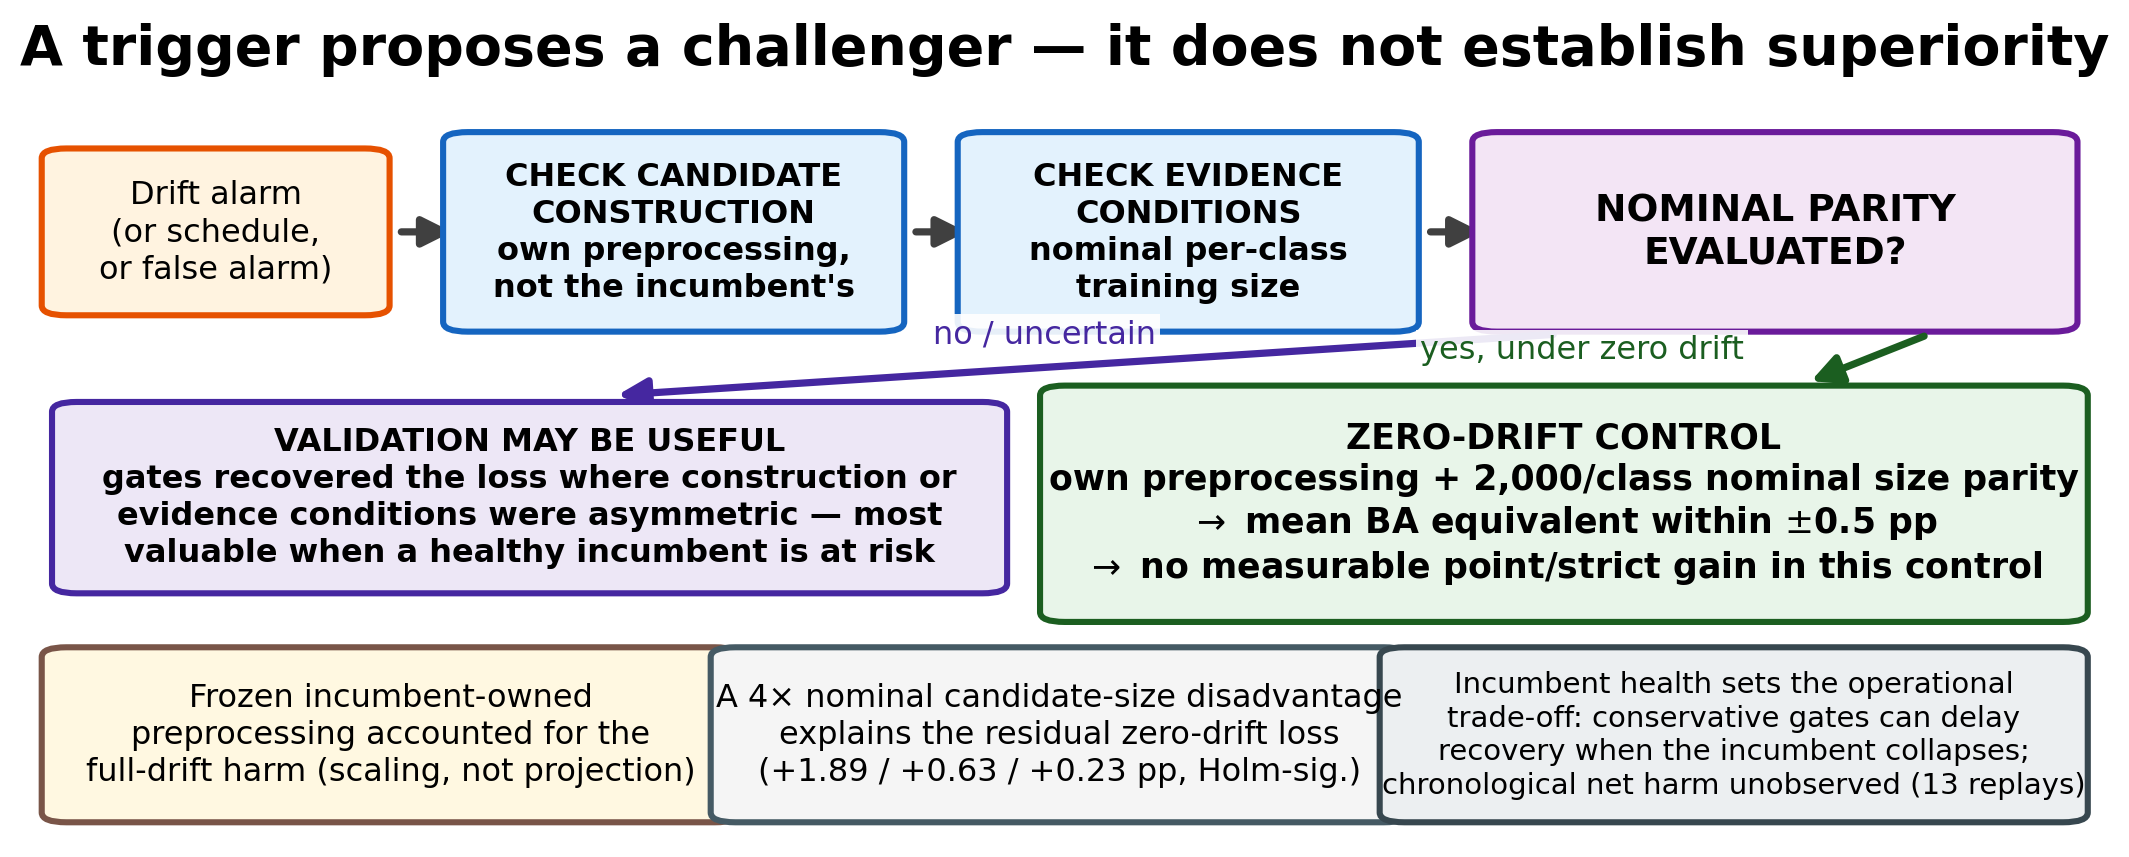
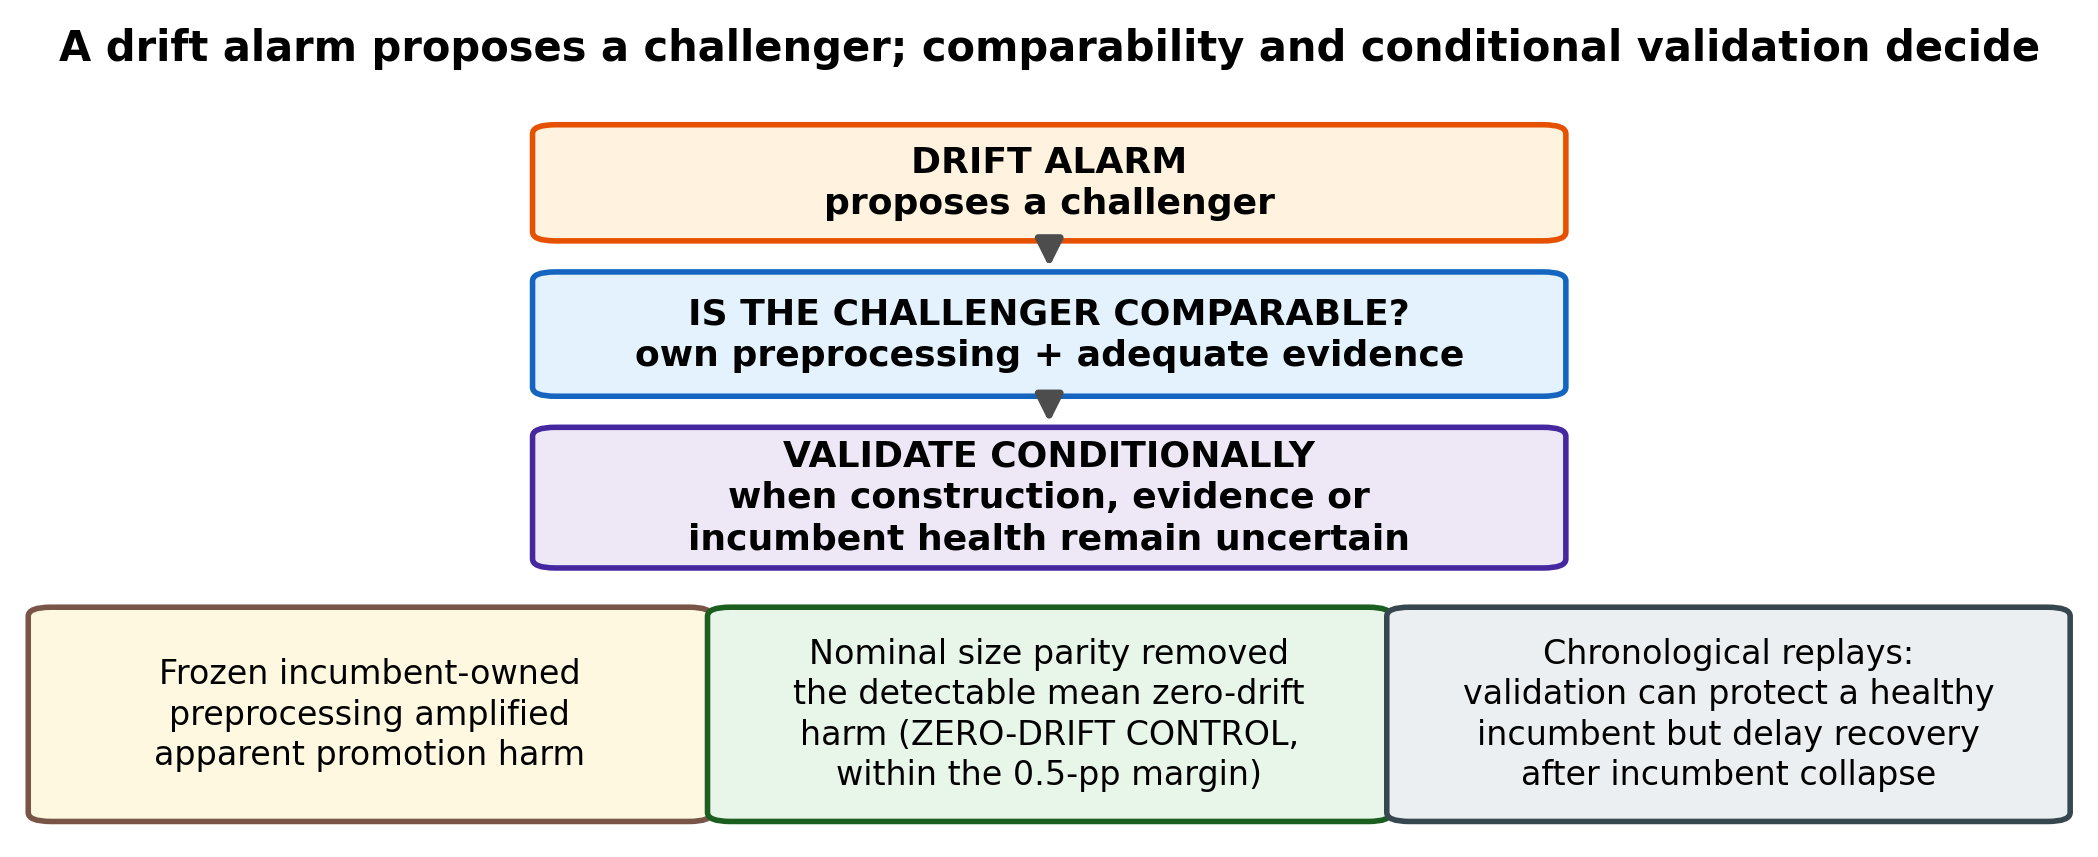
Simplify graphical abstract and final manuscript narrative
Redesign the graphical abstract as a three-step figure (six boxes, ~50 words):
alarm proposes -> is the challenger comparable -> validate conditionally, over
three result messages; no confidence intervals or secondary numbers. Tighten the
abstract to 213 words. Update the highlights graphical-abstract description.

diff --git a/src/analysis/make_paper2_graphical_abstract_final.py b/src/analysis/make_paper2_graphical_abstract_final.py
@@ -1,94 +1,60 @@
-"""Graphical abstract, final KBS narrative-rebuild revision (protocol
-notes/Q1_FINAL_NARRATIVE_BASELINE.md; supersedes the v1.22.1 editorial-scope spec).
+"""Graphical abstract, KBS final focus cut: a radically simplified three-step figure.
 
-Spec (four messages): (1) a drift alarm proposes, but does not justify, promotion;
-(2) candidate construction and evidence size alter promotion outcomes; (3) validation
-helps conditionally -> no/uncertain branch; yes, under the ZERO-DRIFT CONTROL (own
-preprocessing + 2,000/class nominal size parity) -> mean BA equivalent within +-0.5 pp,
-no measurable point/strict gain in this control; (4) incumbent health determines the
-operational trade-off (chronological replays, net harm unobserved). No universal
-deployment rule. Output above Elsevier's 1328x531 minimum.
+Three steps down the centre --- DRIFT ALARM proposes a challenger; IS THE CHALLENGER
+COMPARABLE? (own preprocessing + adequate evidence); VALIDATE CONDITIONALLY (when
+construction, evidence or incumbent health remain uncertain) --- over three result
+messages. Six boxes, ~50 words inside the diagram, no confidence intervals, no secondary
+numbers. The nominal size parity result is stated under the ZERO-DRIFT CONTROL within the
+0.5-pp margin. Output above Elsevier's 1328x531 minimum.
 """
 import matplotlib
 matplotlib.use("Agg")
 import matplotlib.pyplot as plt
 from matplotlib.patches import FancyArrowPatch, FancyBboxPatch
 
-W, H = 13.28, 5.31  # inches at 100 dpi -> 1328x531; render at 200 dpi
+W, H = 13.28, 5.31
 fig, ax = plt.subplots(figsize=(W, H))
-ax.set_xlim(0, 100); ax.set_ylim(0, 100); ax.axis("off")
+ax.set_xlim(0, 100)
+ax.set_ylim(0, 100)
+ax.axis("off")
 
-FS_BIG, FS_MED, FS_SM = 20, 14.5, 12.5
 
-
-def box(x, y, w, h, text, fc, ec, fs=FS_MED, tc="black", bold=False):
-    ax.add_patch(FancyBboxPatch((x, y), w, h, boxstyle="round,pad=1.2",
-                                fc=fc, ec=ec, lw=2.2, mutation_scale=1.0))
+def box(x, y, w, h, text, fc, ec, fs=13.0, bold=False):
+    ax.add_patch(FancyBboxPatch((x, y), w, h, boxstyle="round,pad=1.1",
+                                fc=fc, ec=ec, lw=2.0, mutation_scale=1.0))
     ax.text(x + w / 2, y + h / 2, text, ha="center", va="center", fontsize=fs,
-            color=tc, fontweight="bold" if bold else "normal", linespacing=1.25)
+            fontweight="bold" if bold else "normal", linespacing=1.28)
 
 
-def arrow(x0, y0, x1, y1, color="0.25", lw=2.6, style="-|>"):
-    ax.add_patch(FancyArrowPatch((x0, y0), (x1, y1), arrowstyle=style,
-                                 mutation_scale=22, color=color, lw=lw))
+def arrow(x0, y0, x1, y1, color="0.3"):
+    ax.add_patch(FancyArrowPatch((x0, y0), (x1, y1), arrowstyle="-|>",
+                                 mutation_scale=20, color=color, lw=2.4))
 
 
-# ---- title strip ----
-ax.text(50, 94.5, "A trigger proposes a challenger — it does not establish superiority",
-        ha="center", fontsize=FS_BIG, fontweight="bold")
+# ---- title ----
+ax.text(50, 95, "A drift alarm proposes a challenger; comparability and conditional validation decide",
+        ha="center", fontsize=15.0, fontweight="bold")
 
-# ---- top flow: trigger -> construction check -> evidence check -> parity question ----
-y0, h0 = 63, 22
-box(1.5, y0 + 2, 14.5, h0 - 4, "Drift alarm\n(or schedule,\nor false alarm)",
-    "#fff3e0", "#e65100", fs=11.5)
-arrow(17.5, y0 + h0 / 2, 20.5, y0 + h0 / 2)
-box(21, y0, 20, h0, "CHECK CANDIDATE\nCONSTRUCTION\nown preprocessing,\nnot the incumbent's",
-    "#e3f2fd", "#1565c0", fs=11.5, bold=True)
-arrow(42.5, y0 + h0 / 2, 45.5, y0 + h0 / 2)
-box(46, y0, 20, h0, "CHECK EVIDENCE\nCONDITIONS\nnominal per-class\ntraining size",
-    "#e3f2fd", "#1565c0", fs=11.5, bold=True)
-arrow(67.5, y0 + h0 / 2, 70.5, y0 + h0 / 2)
-box(71, y0, 27, h0, "NOMINAL PARITY\nEVALUATED?",
-    "#f3e5f5", "#6a1b9a", fs=13.5, bold=True)
+# ---- three central steps ----
+cx, w = 26, 48
+box(cx, 74, w, 12, "DRIFT ALARM\nproposes a challenger", "#fff3e0", "#e65100", fs=13, bold=True)
+arrow(50, 73.5, 50, 69)
+box(cx, 55, w, 13, "IS THE CHALLENGER COMPARABLE?\nown preprocessing + adequate evidence",
+    "#e3f2fd", "#1565c0", fs=13, bold=True)
+arrow(50, 54.5, 50, 50)
+box(cx, 34, w, 15, "VALIDATE CONDITIONALLY\nwhen construction, evidence or\nincumbent health remain uncertain",
+    "#ede7f6", "#4527a0", fs=13, bold=True)
 
-# ---- branches ----
-arrow(74, y0 - 1.5, 28, 54, color="#4527a0")
-arrow(92, y0 - 1.5, 86, 55.5, color="#1b5e20")
-ax.text(49, 60.5, "no / uncertain", fontsize=11.5, ha="center", color="#4527a0",
-        bbox=dict(fc="white", ec="none", alpha=0.9, pad=1.5))
-ax.text(83, 58.5, "yes, under zero drift", fontsize=11.5, ha="right", color="#1b5e20",
-        bbox=dict(fc="white", ec="none", alpha=0.9, pad=1.5))
-
-box(2, 31, 44, 21,
-    "VALIDATION MAY BE USEFUL\n"
-    "gates recovered the loss where construction or\n"
-    "evidence conditions were asymmetric — most\n"
-    "valuable when a healthy incumbent is at risk",
-    "#ede7f6", "#4527a0", fs=11.5, bold=True)
-box(50, 27.5, 48.5, 26.5,
-    "ZERO-DRIFT CONTROL\n"
-    "own preprocessing + 2,000/class nominal size parity\n"
-    "$\\rightarrow$ mean BA equivalent within $\\pm$0.5 pp\n"
-    "$\\rightarrow$ no measurable point/strict gain in this control",
-    "#e8f5e9", "#1b5e20", fs=FS_SM, bold=True)
-
-# ---- three evidence badges (scoped; no universal deployment rule) ----
-box(1.5, 3, 31.5, 19,
-    "Frozen incumbent-owned\n"
-    "preprocessing accounted for the\n"
-    "full-drift harm (scaling, not projection)",
-    "#fff8e1", "#795548", fs=11.5)
-box(34, 3, 31.5, 19,
-    "A 4× nominal candidate-size disadvantage\n"
-    "explains the residual zero-drift loss\n"
-    "(+1.89 / +0.63 / +0.23 pp, Holm-sig.)",
-    "#f5f5f5", "#455a64", fs=11.5)
-box(66.5, 3, 32, 19,
-    "Incumbent health sets the operational\n"
-    "trade-off: conservative gates can delay\n"
-    "recovery when the incumbent collapses;\n"
-    "chronological net harm unobserved (13 replays)",
-    "#eceff1", "#37474f", fs=10.5)
+# ---- three result messages ----
+box(1.5, 3, 31, 24,
+    "Frozen incumbent-owned\npreprocessing amplified\napparent promotion harm",
+    "#fff8e1", "#795548", fs=12)
+box(34.5, 3, 31, 24,
+    "Nominal size parity removed\nthe detectable mean zero-drift\nharm (ZERO-DRIFT CONTROL,\nwithin the 0.5-pp margin)",
+    "#e8f5e9", "#1b5e20", fs=12)
+box(67.5, 3, 31, 24,
+    "Chronological replays:\nvalidation can protect a healthy\nincumbent but delay recovery\nafter incumbent collapse",
+    "#eceff1", "#37474f", fs=12)
 
 fig.savefig("docs/img/graphical_abstract.png", dpi=200, bbox_inches="tight",
             facecolor="white")

diff --git a/manuscript/highlights.md b/manuscript/highlights.md
@@ -12,10 +12,10 @@ Elsevier format: 3–5 bullet points, each ≤ 85 characters (including spaces).
 ## Graphical abstract
 
 `docs/img/graphical_abstract.png` (rendered by `python -m src.analysis.make_paper2_graphical_abstract_final`;
-above Elsevier's 1328×531 minimum). Four messages: a drift alarm proposes, but does not
-justify, promotion → check candidate construction → check evidence conditions → nominal
-parity evaluated? No/uncertain: validation may be useful; yes, under the ZERO-DRIFT
-CONTROL (own preprocessing + 2,000/class nominal size parity): mean BA equivalent within
-±0.5 pp, no measurable point/strict gain in this control — and incumbent health sets the
-operational trade-off (conservative gates can delay recovery; chronological net harm
-unobserved across the thirteen replays). No universal deployment rule.
+above Elsevier's 1328×531 minimum). A three-step figure (six boxes, ~50 words): DRIFT
+ALARM proposes a challenger → IS THE CHALLENGER COMPARABLE? (own preprocessing + adequate
+evidence) → VALIDATE CONDITIONALLY (when construction, evidence or incumbent health remain
+uncertain), over three results — frozen incumbent-owned preprocessing amplified apparent
+promotion harm; nominal size parity removed the detectable mean zero-drift harm under the
+ZERO-DRIFT CONTROL within the 0.5-pp margin; chronological replays show validation can
+protect a healthy incumbent but delay recovery after collapse.